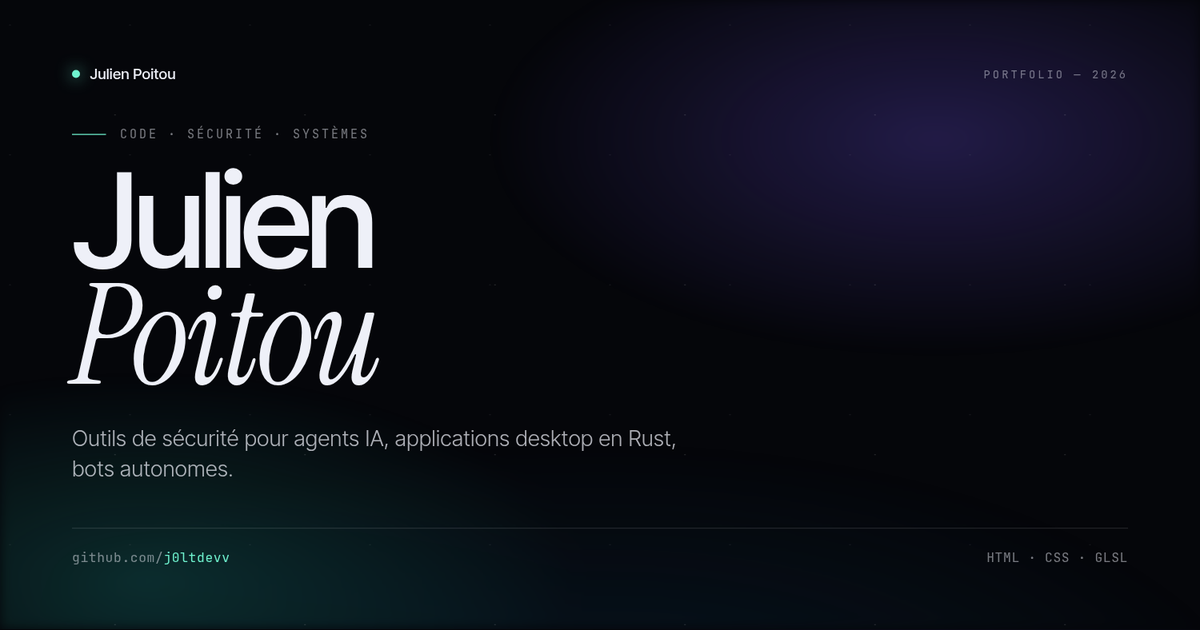
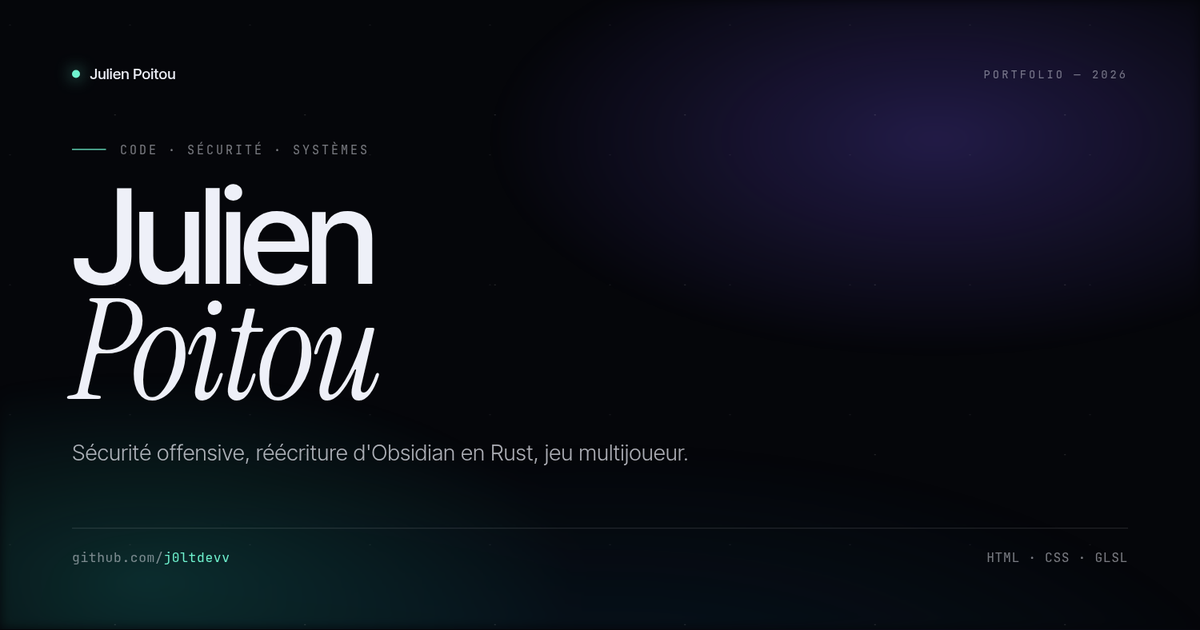
Textes reecrits, approche et contact supprimes, curseur retire, bookmark-watcher ajoute, Provenance

diff --git a/index.html b/index.html
@@ -24,7 +24,7 @@
 <link rel="preconnect" href="https://fonts.googleapis.com">
 <link rel="preconnect" href="https://fonts.gstatic.com" crossorigin>
 <link href="https://fonts.googleapis.com/css2?family=Inter+Tight:wght@300;400;500;600&family=Instrument+Serif:ital@1&family=JetBrains+Mono:wght@400;500&display=swap" rel="stylesheet">
-<link rel="stylesheet" href="assets/style.css?v=11">
+<link rel="stylesheet" href="assets/style.css?v=13">
 <script>document.documentElement.classList.replace('no-js','js');</script>
 </head>
 <body>
@@ -32,7 +32,6 @@
 <canvas id="bg" aria-hidden="true"></canvas>
 <div class="grain" aria-hidden="true"></div>
 <div class="progress" aria-hidden="true"><span></span></div>
-<div class="cursor" aria-hidden="true"></div>
 
 <a class="skip" href="#projets">Aller aux projets</a>
 
@@ -42,8 +41,6 @@
   </a>
   <nav class="nav__links" aria-label="Navigation principale">
     <a href="#projets">Projets</a>
-    <a href="#approche">Approche</a>
-    <a href="#contact">Contact</a>
   </nav>
 </header>
 
@@ -66,7 +63,6 @@
     <dl class="hero__spec" data-reveal>
       <div><dt>Base</dt><dd>Bordeaux, FR</dd></div>
       <div><dt>Code</dt><dd><a href="https://github.com/j0ltdevv" target="_blank" rel="noopener">github.com/j0ltdevv</a></dd></div>
-      <div><dt>Statut</dt><dd class="is-live">disponible pour un stage</dd></div>
     </dl>
 
     <div class="scroll-cue" aria-hidden="true">
@@ -94,14 +90,13 @@
   <section id="projets" class="projects">
     <header class="section-head">
       <h2 data-reveal>Projets</h2>
-      <p data-reveal>Huit choses que j'ai construites — du coffre-fort de clés au shim Python publié sur PyPI.</p>
     </header>
 
     <article class="project" id="p1" data-project data-index="01">
       <div class="project__info">
         <p class="project__num" data-reveal><span>01</span><span class="project__lang">TypeScript</span></p>
         <h3 data-reveal>MCPGUARD</h3>
-        <p class="project__desc" data-reveal>Un agent IA a besoin de clés d'API — et ces clés finissent en clair dans les fichiers de configuration. MCPGUARD les déplace dans le keychain du système et ne laisse derrière lui qu'une référence <code>mcpguard://&lt;id&gt;</code>. Le CLI audite les configs existantes, migre les secrets et révoque un accès sans toucher au reste.</p>
+        <p class="project__desc" data-reveal>Les agents IA ont besoin de clés d'API. En pratique elles finissent en clair dans des fichiers de config, lisibles par n'importe qui. MCPGUARD les range dans le keychain du système et laisse une référence <code>mcpguard://&lt;id&gt;</code> à la place. Le CLI audite les configs, migre les secrets, révoque un accès.</p>
         <ul class="tags" data-reveal><li>CLI</li><li>keychain OS</li><li>agents IA</li></ul>
         <a class="project__link" href="https://github.com/j0ltdevv/MCPGUARD" target="_blank" rel="noopener" data-reveal>
           Voir le code <span aria-hidden="true">↗</span>
@@ -116,14 +111,12 @@
       </figure>
     </article>
 
-
-
     <article class="project" id="p2" data-project data-index="02">
       <div class="project__info">
         <p class="project__num" data-reveal><span>02</span><span class="project__lang">Python</span></p>
         <h3 data-reveal>agnt</h3>
-        <p class="project__desc" data-reveal>Une mission en français et une cible. L'agent choisit lui-même ses outils dans un pool qualifié, exécute chaque étape dans une sandbox <code>bwrap</code>, puis corrèle les résultats en rapport. La politique OPA refuse par défaut : sans outil autorisé, il rend un refus nommé — jamais un résultat inventé.</p>
-        <ul class="tags" data-reveal><li>sécurité</li><li>sandbox bwrap</li><li>OPA</li></ul>
+        <p class="project__desc" data-reveal>Agent offensif autonome. On lui donne une mission en français et une cible. Il choisit ses outils dans un pool qualifié, lance chaque étape dans une sandbox bwrap, et rend un rapport. La politique OPA refuse par défaut : sans outil autorisé, il renvoie un refus nommé au lieu d'inventer un résultat.</p>
+        <ul class="tags" data-reveal><li>offensif</li><li>sandbox bwrap</li><li>OPA</li></ul>
         <a class="project__link" href="https://github.com/j0ltdevv/agnt" target="_blank" rel="noopener" data-reveal>
           Voir le code <span aria-hidden="true">↗</span>
         </a>
@@ -137,14 +130,12 @@
       </figure>
     </article>
 
-
-
     <article class="project" id="p3" data-project data-index="03">
       <div class="project__info">
         <p class="project__num" data-reveal><span>03</span><span class="project__lang">TypeScript</span></p>
         <h3 data-reveal>Who Listening</h3>
-        <p class="project__desc" data-reveal>Jeu multijoueur où tes amis devinent les morceaux que tu écoutes vraiment. OAuth Spotify, cinq catégories (guilty pleasures, vieux favoris, bandes originales), des bots pour compléter une partie, et un timer calé sur <code>Date.now()</code> : la fin de manche reste juste même si le réseau rame.</p>
-        <ul class="tags" data-reveal><li>React Native</li><li>Spotify API</li><li>temps réel</li></ul>
+        <p class="project__desc" data-reveal>Un jeu entre potes. Chacun branche son Spotify, une manche démarre, un morceau tombe : les autres doivent trouver à qui il appartient. Cinq catégories, des bots pour compléter la table, et un timer calé sur <code>Date.now()</code> pour que la fin de manche reste juste même si le réseau rame.</p>
+        <ul class="tags" data-reveal><li>React Native</li><li>Spotify API</li><li>multijoueur</li></ul>
         <a class="project__link" href="https://github.com/j0ltdevv/spotify-app" target="_blank" rel="noopener" data-reveal>
           Voir le code <span aria-hidden="true">↗</span>
         </a>
@@ -162,7 +153,7 @@
       <div class="project__info">
         <p class="project__num" data-reveal><span>04</span><span class="project__lang">Python · PyPI</span></p>
         <h3 data-reveal>venv-proxy</h3>
-        <p class="project__desc" data-reveal>Personne ne se souvient de taper <code>source .venv/bin/activate</code> — et les agents IA encore moins. venv-proxy remonte l'arborescence pour trouver le <code>.venv</code> le plus proche, vérifie que le binaire est réellement exécutable, et installe un shim transparent : <code>python</code> et <code>pip</code> tombent toujours sur le bon environnement. Publié sur PyPI.</p>
+        <p class="project__desc" data-reveal><code>python</code> et <code>pip</code> devraient toujours taper dans le <code>.venv</code> du projet courant. Personne ne pense à <code>source .venv/bin/activate</code>, les agents IA encore moins. venv-proxy remonte l'arborescence, trouve le venv le plus proche, vérifie que le binaire est exécutable et pose un shim. Publié sur PyPI.</p>
         <ul class="tags" data-reveal><li>Python</li><li>PyPI</li><li>DX</li></ul>
         <a class="project__link" href="https://github.com/j0ltdevv/venv-proxy" target="_blank" rel="noopener" data-reveal>
           Voir le code <span aria-hidden="true">↗</span>
@@ -177,13 +168,11 @@
       </figure>
     </article>
 
-
-
     <article class="project" id="p5" data-project data-index="05">
       <div class="project__info">
         <p class="project__num" data-reveal><span>05</span><span class="project__lang">Next.js</span></p>
-        <h3 data-reveal>observatoire</h3>
-        <p class="project__desc" data-reveal>Un registre des mobilisations lycéennes conçu pour être vérifiable : chaque chiffre renvoie à la requête qui l'a produit. L'API publique est versionnée et expose les mêmes données en CSV et GeoJSON, avec les noms de colonnes figés pour ne pas casser les traitements des journalistes.</p>
+        <h3 data-reveal>Provenance</h3>
+        <p class="project__desc" data-reveal>Un chiffre sur les mobilisations lycéennes ne vaut rien s'il est impossible à retrouver. Ici chaque nombre renvoie à sa requête source, et les données viennent du MCP du gouvernement. L'API est versionnée, exportable en CSV et GeoJSON, avec des colonnes figées pour ne pas casser les traitements des journalistes.</p>
         <ul class="tags" data-reveal><li>open data</li><li>SQLite</li><li>API versionnée</li></ul>
         <a class="project__link" href="https://github.com/j0ltdevv/observatoire" target="_blank" rel="noopener" data-reveal>
           Voir le code <span aria-hidden="true">↗</span>
@@ -198,14 +187,12 @@
       </figure>
     </article>
 
-
-
     <article class="project" id="p6" data-project data-index="06">
       <div class="project__info">
         <p class="project__num" data-reveal><span>06</span><span class="project__lang">Flutter</span></p>
         <h3 data-reveal>NeuraGreen</h3>
-        <p class="project__desc" data-reveal>Rend visible ce que consomme une requête IA : CO₂e, eau, tokens et coût, par modèle et dans le temps. Les clés restent dans le Keychain ou le Keystore, le contenu des prompts n'est jamais lu, et tout l'historique reste consultable hors ligne.</p>
-        <ul class="tags" data-reveal><li>Flutter</li><li>privacy-first</li><li>hors ligne</li></ul>
+        <p class="project__desc" data-reveal>Chaque requête à un modèle coûte de l'électricité, de l'eau et de l'argent, et personne ne le voit. Cette app Flutter lit les factures OpenAI, convertit les tokens en CO₂e, litres et dollars, et compare les modèles entre eux. Les clés restent dans le Keychain, l'historique marche hors ligne.</p>
+        <ul class="tags" data-reveal><li>Flutter</li><li>CO₂e</li><li>hors ligne</li></ul>
         <a class="project__link" href="https://github.com/j0ltdevv/NeuraGreen" target="_blank" rel="noopener" data-reveal>
           Voir le code <span aria-hidden="true">↗</span>
         </a>
@@ -219,14 +206,12 @@
       </figure>
     </article>
 
-
-
     <article class="project" id="p7" data-project data-index="07">
       <div class="project__info">
         <p class="project__num" data-reveal><span>07</span><span class="project__lang">Rust</span></p>
         <h3 data-reveal>obsidian-rs</h3>
-        <p class="project__desc" data-reveal>Client Obsidian natif en Rust avec iced : rendu GPU, thèmes clair et sombre appliqués à chaud, taille de fenêtre persistée. Un binaire unique, pas d'Electron — pour un éditeur de notes qui démarre vite et tient en mémoire.</p>
-        <ul class="tags" data-reveal><li>Rust</li><li>iced</li><li>desktop natif</li></ul>
+        <p class="project__desc" data-reveal>Réécriture complète d'Obsidian en Rust avec iced, sans Electron : un seul binaire et une RAM qui n'a plus rien à voir. Le portage s'appuie sur un MCP de reverse engineering pour analyser le comportement de l'original. Une première mondiale.</p>
+        <ul class="tags" data-reveal><li>Rust</li><li>iced</li><li>reverse engineering</li></ul>
         <a class="project__link" href="https://github.com/j0ltdevv/obsidian-rs" target="_blank" rel="noopener" data-reveal>
           Voir le code <span aria-hidden="true">↗</span>
         </a>
@@ -240,14 +225,12 @@
       </figure>
     </article>
 
-
-
     <article class="project" id="p8" data-project data-index="08">
       <div class="project__info">
         <p class="project__num" data-reveal><span>08</span><span class="project__lang">Python</span></p>
         <h3 data-reveal>pentest-lab</h3>
-        <p class="project__desc" data-reveal>Répliques fidèles de contrôleurs de portail captif et de services réels, pour s'entraîner hors ligne. Chaque lab tourne en environnement isolé, avec un périmètre écrit dans <code>scope.yaml</code> et des cibles comme des données anonymisées.</p>
-        <ul class="tags" data-reveal><li>sécurité offensive</li><li>Flask</li><li>lab isolé</li></ul>
+        <p class="project__desc" data-reveal>Un banc d'essai pour agents de sécurité offensifs. Un lab Docker reproduit une vraie chaîne d'attaque, portail captif compris, avec six vulnérabilités plantées exprès (H1 à H6). Les agents sont notés sur des critères de preuve objectifs, et tout part d'un <code>scope.yaml</code> explicite.</p>
+        <ul class="tags" data-reveal><li>Docker</li><li>agents offensifs</li><li>benchmark</li></ul>
         <a class="project__link" href="https://github.com/j0ltdevv/pentest-lab" target="_blank" rel="noopener" data-reveal>
           Voir le code <span aria-hidden="true">↗</span>
         </a>
@@ -261,56 +244,32 @@
       </figure>
     </article>
 
+    <article class="project" id="p9" data-project data-index="09">
+      <div class="project__info">
+        <p class="project__num" data-reveal><span>09</span><span class="project__lang">Python</span></p>
+        <h3 data-reveal>bookmark-watcher</h3>
+        <p class="project__desc" data-reveal>Mes bookmarks X s'entassaient sans que je les lise. Ce bot les surveille en continu et m'envoie sur Telegram le lien, un verdict, un résumé et des sources web. Il interroge l'API GraphQL directement avec les cookies de session, sans navigateur : quelques Mo de RAM et moins d'une seconde par cycle.</p>
+        <ul class="tags" data-reveal><li>Telegram</li><li>GraphQL</li><li>automatisation</li></ul>
+        <a class="project__link" href="https://github.com/j0ltdevv/bookmark-watcher" target="_blank" rel="noopener" data-reveal>
+          Voir le code <span aria-hidden="true">↗</span>
+        </a>
+      </div>
+      <figure class="panel" data-tilt data-reveal>
+        <figcaption class="panel__bar">
+          <span class="panel__dots" aria-hidden="true"><i></i><i></i><i></i></span>
+          <span class="panel__file">watcher.py</span>
+        </figcaption>
+<pre class="code"><code><span class="ln"><span class="tok-d">Architecture "push agressif" :</span></span><span class="ln"><span class="tok-d">  - régime permanent : HTTP pur vers l'API GraphQL de X avec les cookies de session</span></span><span class="ln"><span class="tok-d">    (quelques Mo de RAM, réponse &lt; 1 s, POLL_INTERVAL par défaut 45 s)</span></span><span class="ln"><span class="tok-d">  - le navigateur camoufox ne sert qu'à deux choses : le login initial (une fois),</span></span><span class="ln"><span class="tok-d">    et le rafraîchissement de session quand les cookies expirent (rare, automatique)</span></span></code></pre>
+      </figure>
+    </article>
+
     <p class="more" data-reveal>
       Aussi en ligne :
       <a href="https://github.com/j0ltdevv/redteam-agent" target="_blank" rel="noopener">redteam-agent</a>,
       <a href="https://github.com/j0ltdevv/bots" target="_blank" rel="noopener">bots</a>,
       <a href="https://github.com/j0ltdevv/pronote-blocus" target="_blank" rel="noopener">pronote-blocus</a>,
-      <a href="https://github.com/j0ltdevv/bookmark-watcher" target="_blank" rel="noopener">bookmark-watcher</a>,
       <a href="https://github.com/j0ltdevv/stack" target="_blank" rel="noopener">stack</a>.
     </p>
-  </section>
-
-  <!-- ───────────── APPROCHE ───────────── -->
-  <section id="approche" class="approach">
-    <header class="section-head">
-      <h2 data-reveal>Approche</h2>
-    </header>
-    <div class="approach__grid">
-      <div class="approach__item" data-reveal>
-        <span class="approach__num">01</span>
-        <h3>Ça tourne vraiment</h3>
-        <p>Chaque projet de cette page est déployé ou exécuté chez moi, pas laissé à l'état de prototype.</p>
-      </div>
-      <div class="approach__item" data-reveal>
-        <span class="approach__num">02</span>
-        <h3>Sécurité par défaut</h3>
-        <p>Aucun secret en clair : keychain de l'OS, chiffrement au repos, secrets retirés de l'historique Git.</p>
-      </div>
-      <div class="approach__item" data-reveal>
-        <span class="approach__num">03</span>
-        <h3>Comprendre avant d'empiler</h3>
-        <p>Un shader GLSL écrit à la main plutôt qu'une librairie : cette page n'a ni framework ni template.</p>
-      </div>
-    </div>
-  </section>
-
-  <!-- ───────────── CONTACT ───────────── -->
-  <section id="contact" class="contact">
-    <p class="eyebrow" data-reveal>Contact</p>
-    <h2 class="contact__title" data-reveal>
-      On en parle&nbsp;?
-    </h2>
-    <p class="contact__sub" data-reveal>
-      Je cherche un stage de découverte en informatique et cybersécurité.
-      Le plus simple reste GitHub — tout mon code est public.
-    </p>
-    <div class="contact__links" data-reveal>
-      <a class="btn" href="https://github.com/j0ltdevv" target="_blank" rel="noopener">
-        github.com/j0ltdevv <span aria-hidden="true">↗</span>
-      </a>
-      <a class="btn btn--ghost" href="https://github.com/j0ltdevv?tab=repositories" target="_blank" rel="noopener">Tous les dépôts <span aria-hidden="true">↗</span></a>
-    </div>
   </section>
 
 </main>
@@ -318,13 +277,12 @@
 <footer class="foot">
   <div class="foot__row">
     <span>© <span data-year>2026</span> j0ltdevv</span>
-    <span>Écrit à la main — HTML, CSS, GLSL</span>
     <a href="https://github.com/j0ltdevv" target="_blank" rel="noopener">GitHub <span aria-hidden="true">↗</span></a>
   </div>
   <div class="foot__mark" aria-hidden="true">Poitou</div>
 </footer>
 
-<script src="assets/gl.js?v=11"></script>
-<script src="assets/app.js?v=11"></script>
+<script src="assets/gl.js?v=13"></script>
+<script src="assets/app.js?v=13"></script>
 </body>
 </html>

diff --git a/assets/app.js b/assets/app.js
@@ -98,51 +98,6 @@
     items.forEach((el) => io.observe(el));
   }
 
-  /* ── curseur ──────────────────────────────── */
-  const cursor = document.querySelector(".cursor");
-
-  if (cursor && fine && !reduce) {
-    let cx = window.innerWidth / 2;
-    let cy = window.innerHeight / 2;
-    let tx = cx;
-    let ty = cy;
-    let raf = 0;
-    let shown = false;
-
-    const loop = () => {
-      cx += (tx - cx) * 0.18;
-      cy += (ty - cy) * 0.18;
-      cursor.style.transform = `translate3d(${cx.toFixed(2)}px, ${cy.toFixed(2)}px, 0)`;
-      raf = requestAnimationFrame(loop);
-    };
-
-    window.addEventListener("pointermove", (e) => {
-      tx = e.clientX;
-      ty = e.clientY;
-      if (!shown) {
-        shown = true;
-        cx = tx;
-        cy = ty;
-        cursor.classList.add("is-active");
-        raf = requestAnimationFrame(loop);
-      }
-    }, { passive: true });
-
-    const hot = "a, button, .panel, .tags li";
-    document.addEventListener("pointerover", (e) => {
-      if (e.target.closest(hot)) cursor.classList.add("is-hot");
-    });
-    document.addEventListener("pointerout", (e) => {
-      if (e.target.closest(hot)) cursor.classList.remove("is-hot");
-    });
-
-    document.addEventListener("pointerleave", () => {
-      cursor.classList.remove("is-active");
-      shown = false;
-      cancelAnimationFrame(raf);
-    });
-  }
-
   /* ── inclinaison des panneaux de code ─────── */
   if (fine && !reduce) {
     document.querySelectorAll("[data-tilt]").forEach((panel) => {

diff --git a/assets/style.css b/assets/style.css
@@ -105,33 +105,6 @@ html.no-webgl body{
   background:linear-gradient(90deg,var(--accent),var(--accent-2));
 }
 
-/* ── curseur custom ─────────────────────────── */
-.cursor{
-  position:fixed;
-  top:0; left:0;
-  width:26px; height:26px;
-  margin:-13px 0 0 -13px;
-  border:1px solid rgba(238,240,248,.55);
-  border-radius:50%;
-  z-index:70;
-  pointer-events:none;
-  opacity:0;
-  mix-blend-mode:difference;
-  transition:width .25s ease, height .25s ease, margin .25s ease,
-             background-color .25s ease, border-color .25s ease, opacity .3s ease;
-}
-.cursor.is-active{ opacity:1; }
-.cursor.is-hot{
-  width:52px; height:52px;
-  margin:-26px 0 0 -26px;
-  background:rgba(238,240,248,.14);
-  border-color:transparent;
-}
-
-@media (hover:none),(pointer:coarse){
-  .cursor{ display:none; }
-}
-
 /* ── skip link ──────────────────────────────── */
 .skip{
   position:absolute;
@@ -865,7 +838,7 @@ main > section{
   -webkit-text-stroke:1px rgba(238,240,248,.13);
   white-space:nowrap;
   user-select:none;
-  margin-bottom:-0.16em;
+  margin-bottom:-0.04em;
   padding-top:.06em;
 }
 
@@ -902,7 +875,6 @@ main > section{
     gap:2rem;
   }
   .approach__grid{ grid-template-columns:1fr; }
-  .nav__links a:nth-child(2){ display:none; }
 }
 
 @media (max-width:560px){

diff --git a/og-card.html b/og-card.html
@@ -79,7 +79,7 @@
   <div class="middle">
     <div class="eyebrow">Code · Sécurité · Systèmes</div>
     <h1>j0ltdevv</h1>
-    <p class="sub">Outils de sécurité pour agents IA, applications desktop en Rust, bots autonomes.</p>
+    <p class="sub">Sécurité offensive, réécriture d'Obsidian en Rust, jeu multijoueur.</p>
   </div>
 
   <div class="bottom">
